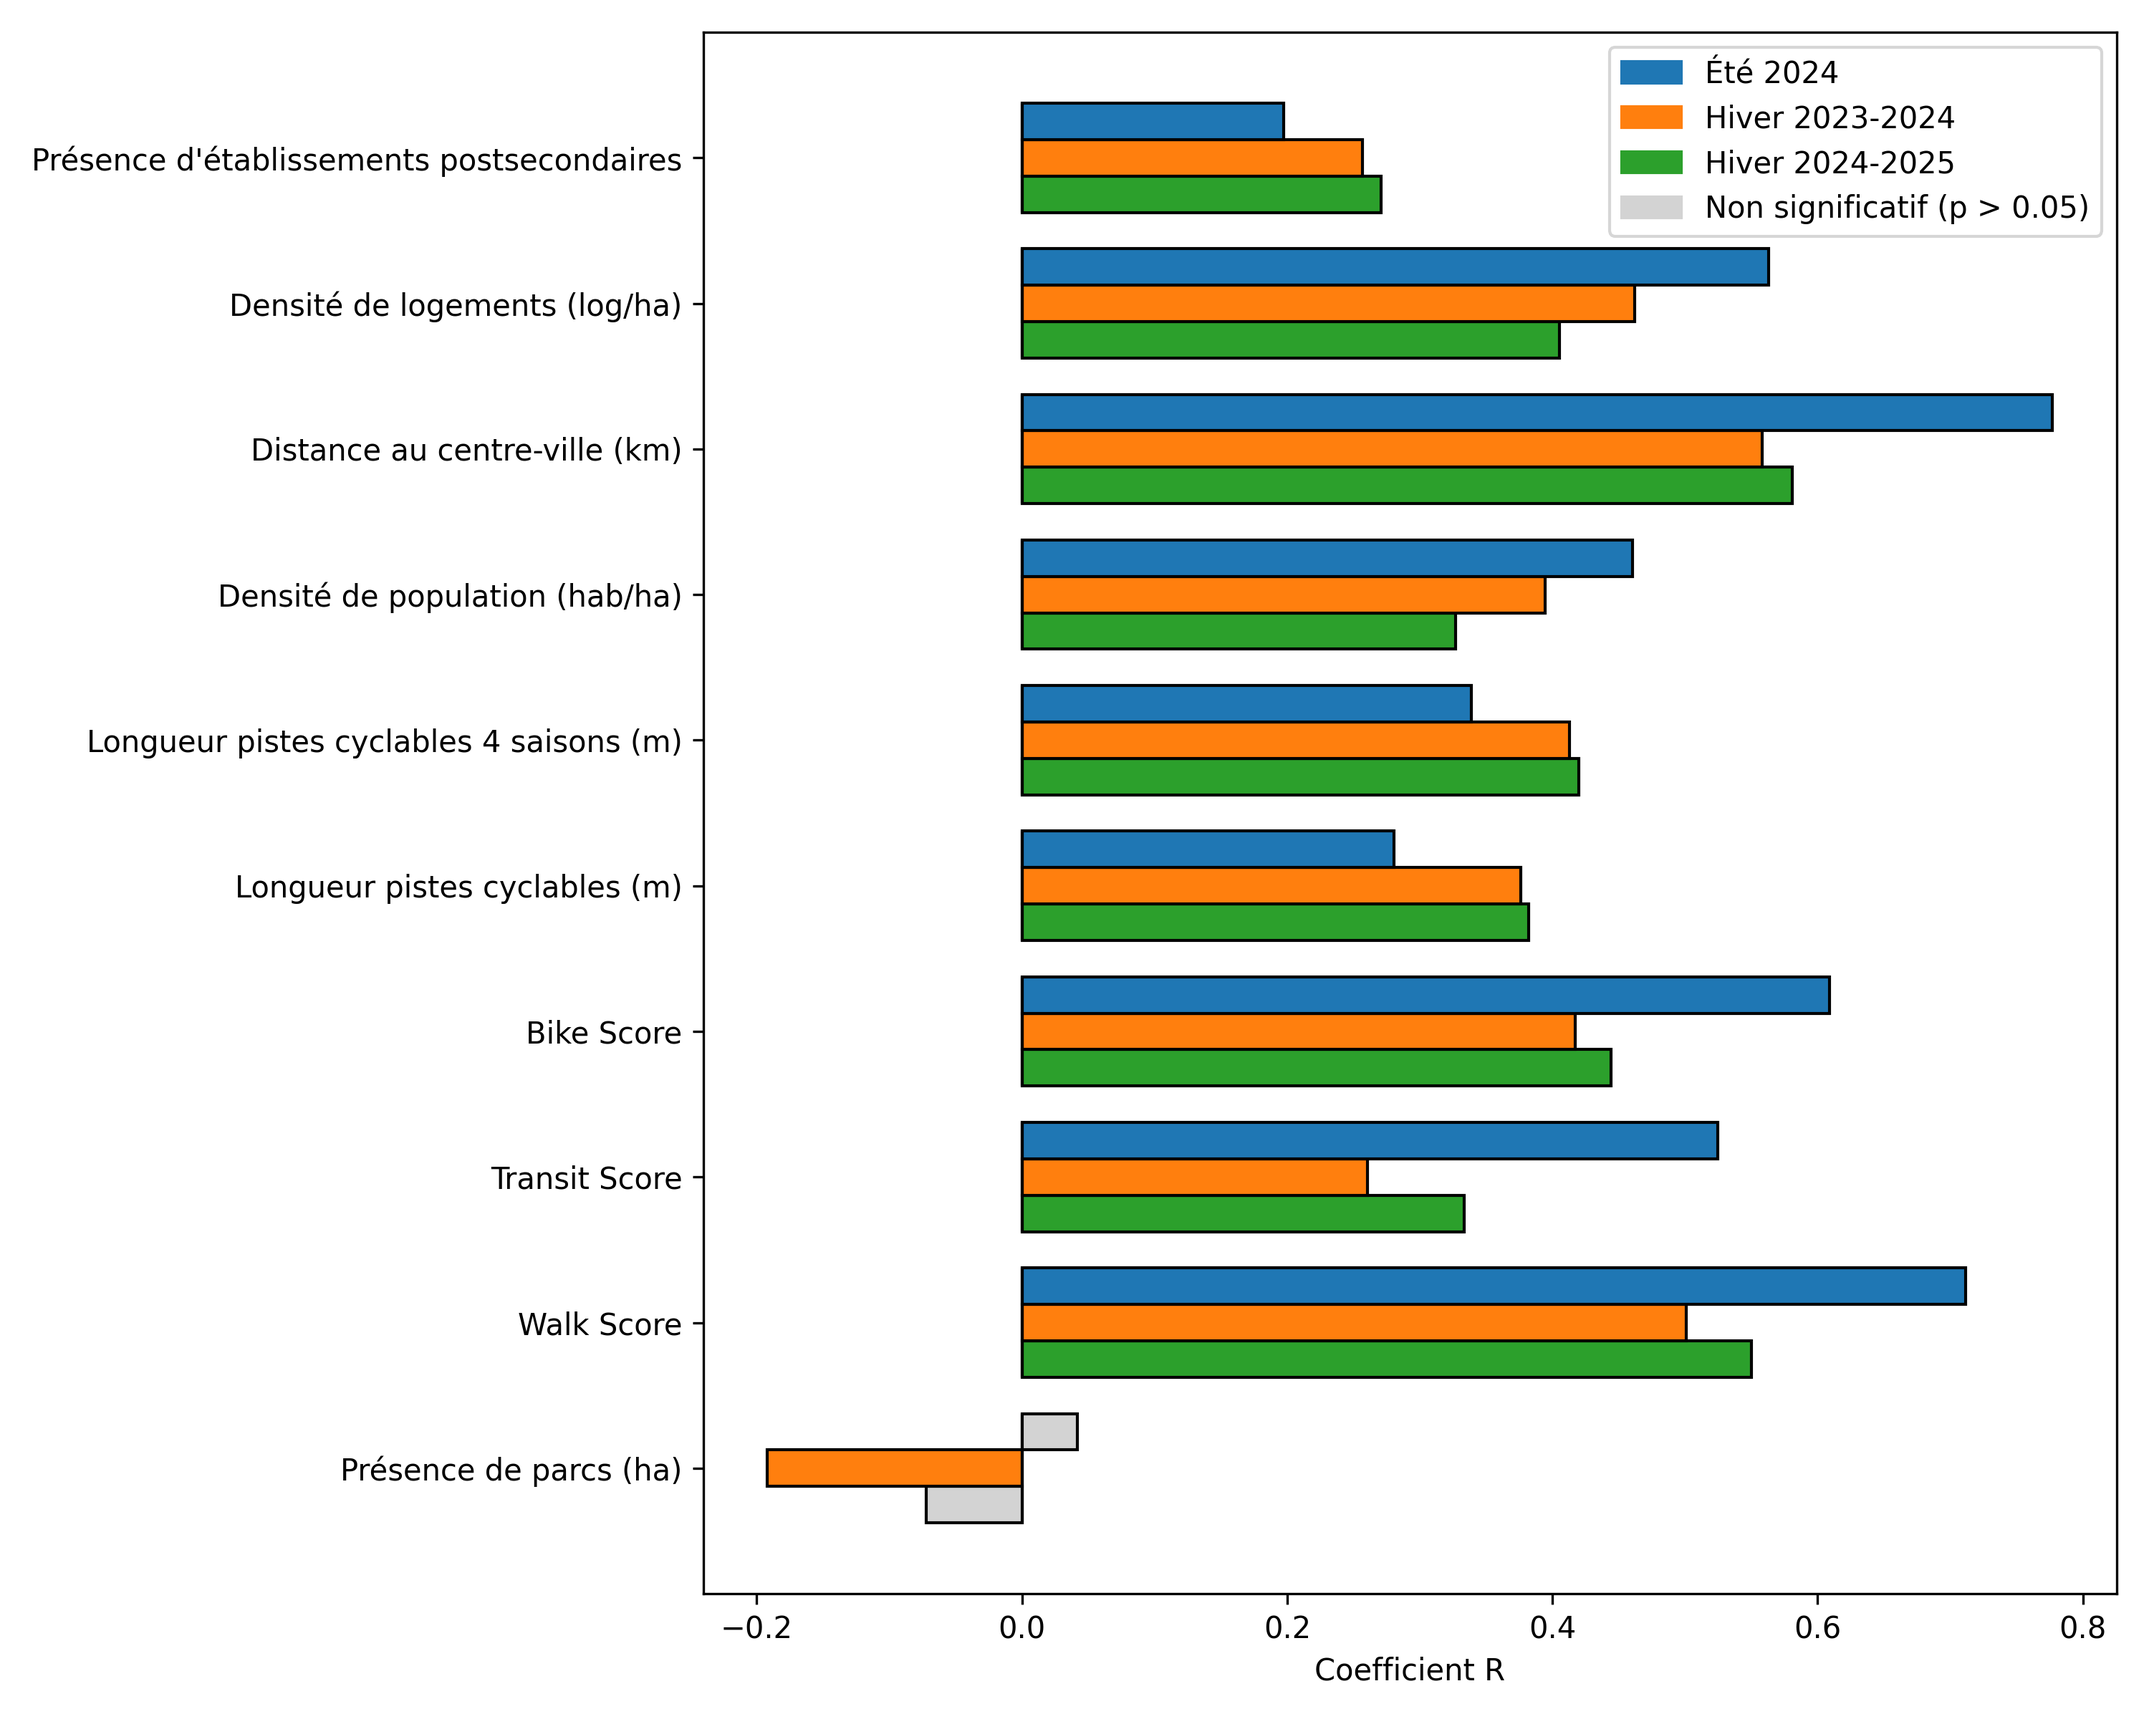
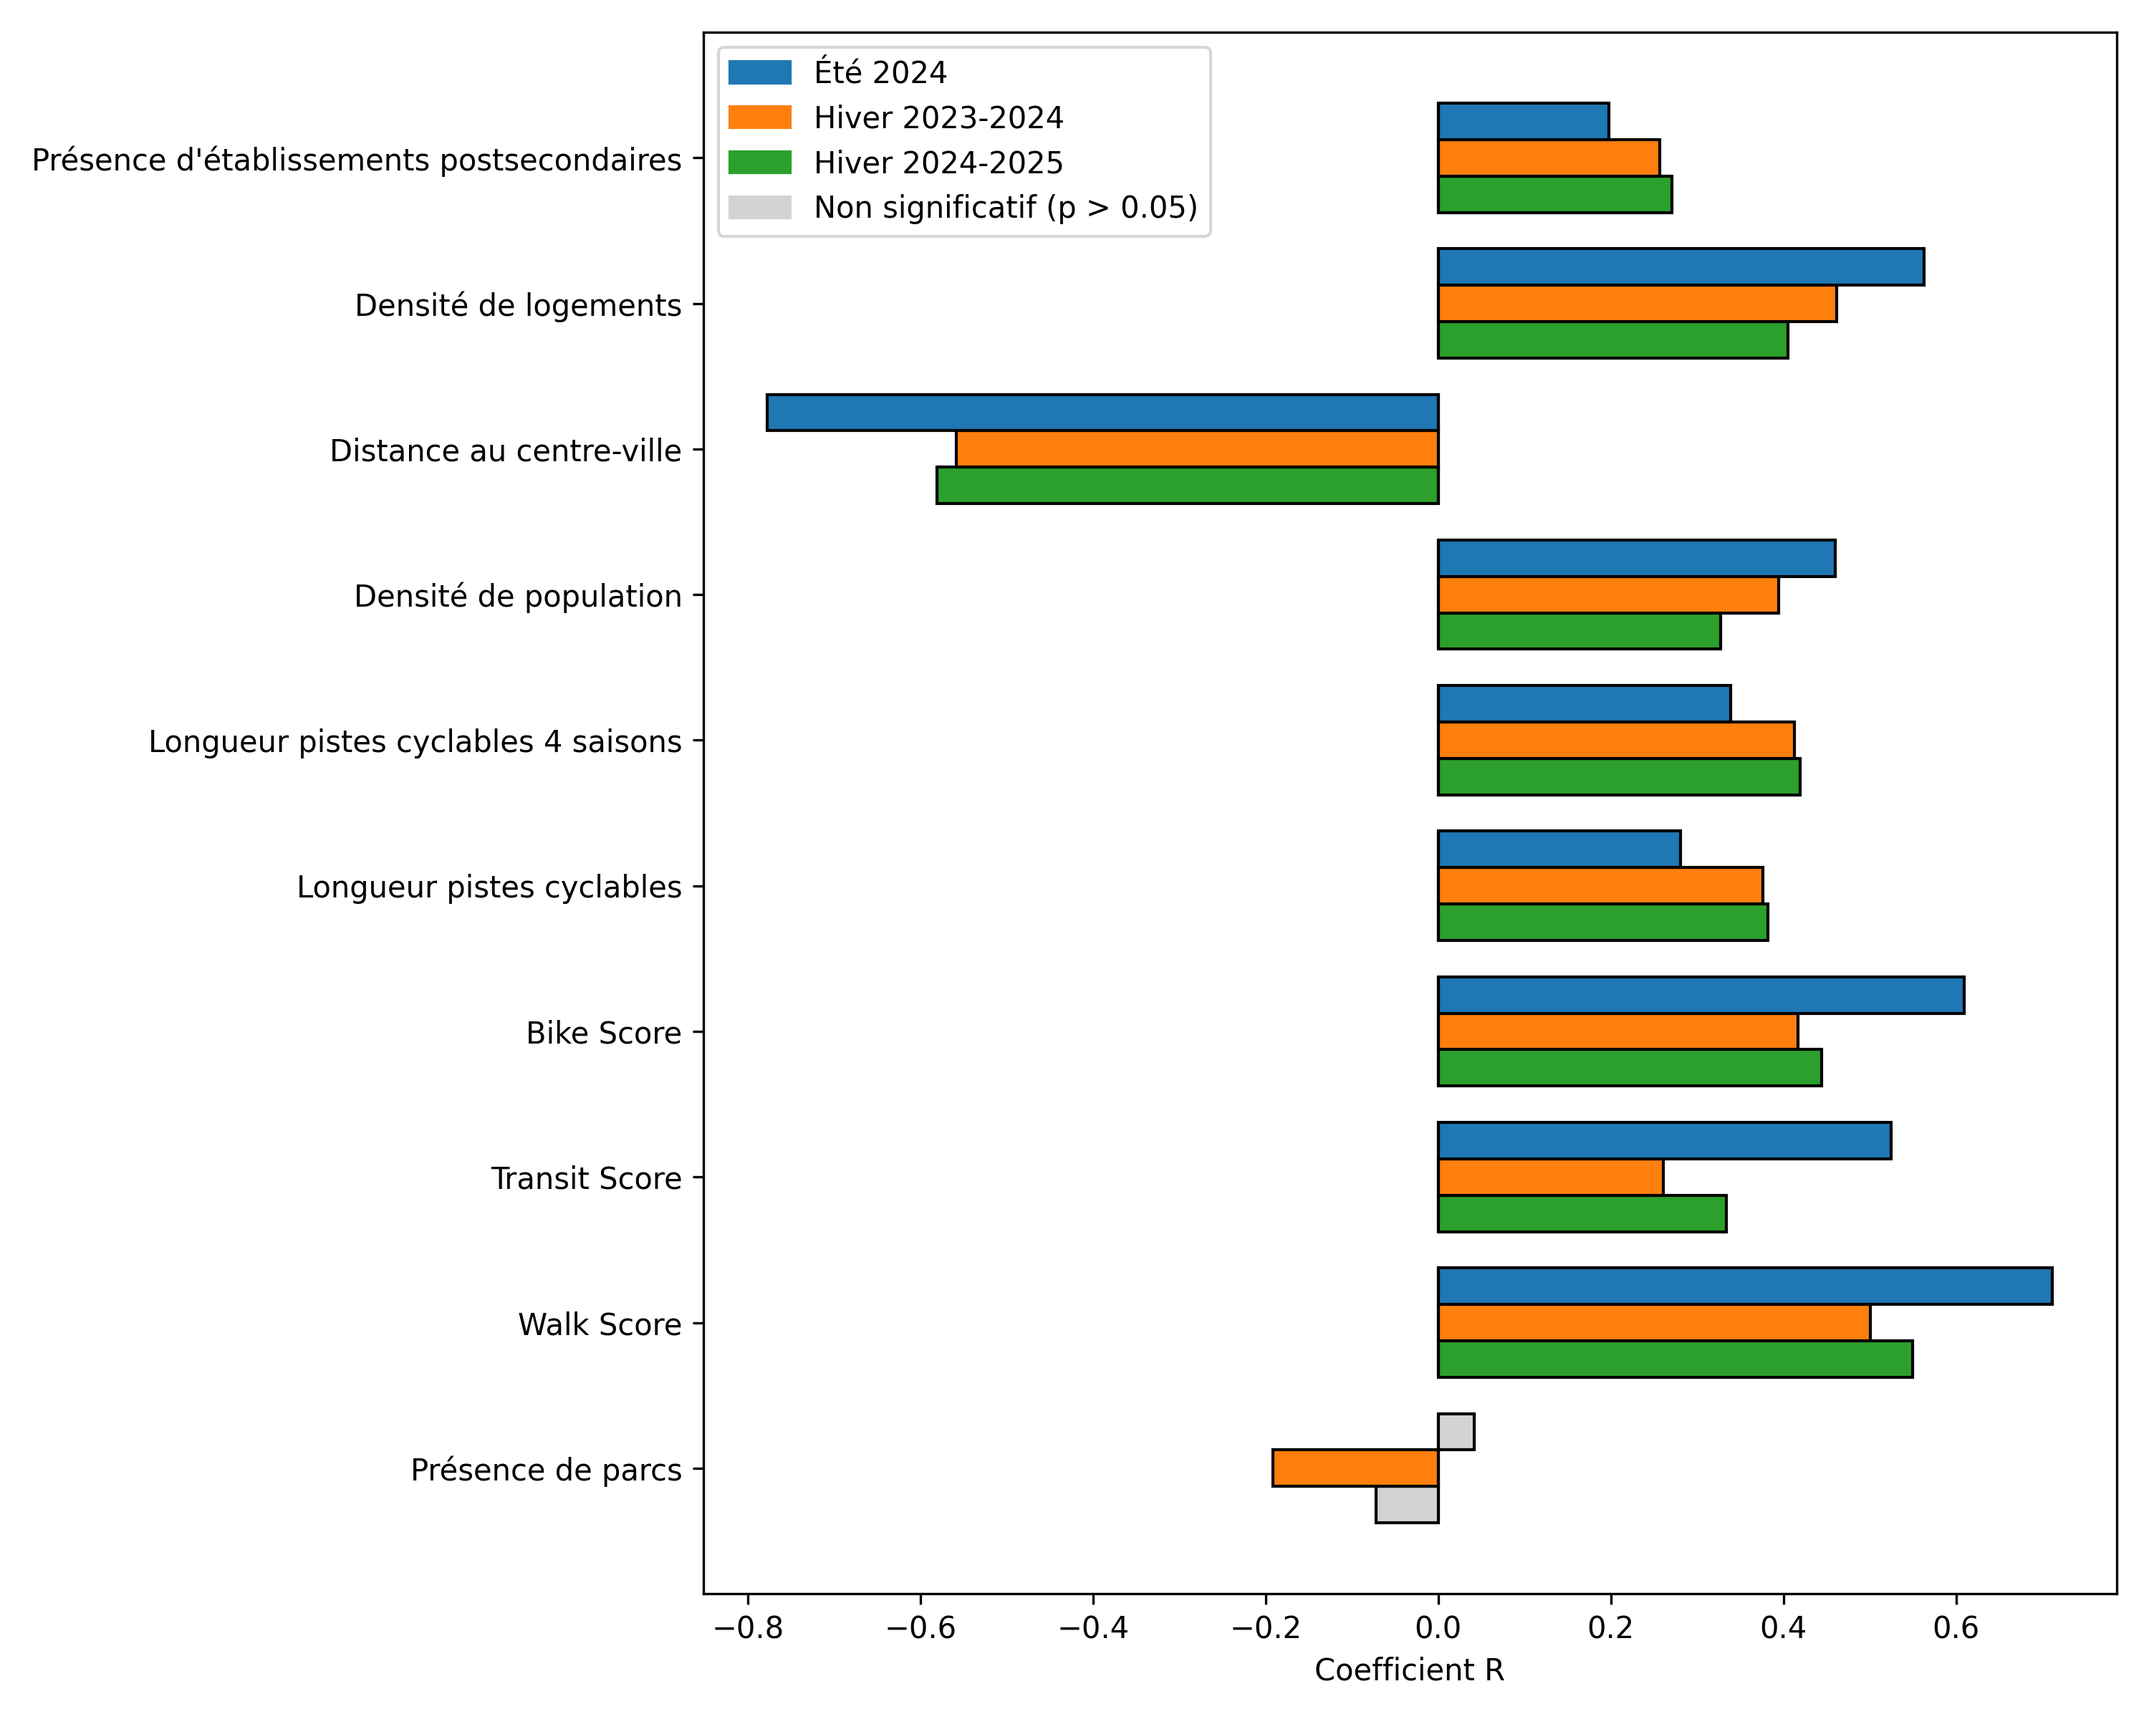
revert invert distance to cbd

diff --git a/scripts/visuals/corr_comp_graph.py b/scripts/visuals/corr_comp_graph.py
@@ -6,18 +6,18 @@ from scipy.stats import spearmanr
 
 # Dictionnaire x_variable → description
 dict_nom = {
-    "aire_parc": "Présence de parcs (ha)",
+    "aire_parc": "Présence de parcs",
     #"nombre_uni": "Nombre d'universités",
     "walk_sc_mo": "Walk Score",
     "tran_sc_mo": "Transit Score",
     "bike_sc_mo": "Bike Score",
-    "l_m": "Longueur pistes cyclables (m)",
-    "l4s_m": "Longueur pistes cyclables 4 saisons (m)",
+    "l_m": "Longueur pistes cyclables",
+    "l4s_m": "Longueur pistes cyclables 4 saisons",
     #"p4s_m": "Longueur pistes cyclables 4 saisons protégées (m)",
     #"np4s_m": "Longueur pistes cyclables 4 saisons non protégées (m)",
-    "densite_es": "Densité de population (hab/ha)",
-    "distance_c": "Distance au centre-ville (km)",
-    "densite_lo": "Densité de logements (log/ha)",
+    "densite_es": "Densité de population",
+    "distance_c": "Distance au centre-ville",
+    "densite_lo": "Densité de logements",
    # "nb_cegep": "Nombre de cégeps",
     "nb_ec_supp": "Présence d'établissements postsecondaires"
 }
@@ -43,9 +43,9 @@ def plot_correlation(R_col, p_col, output_file="correlations.png"):
     """
     # Charger les CSV
     dfs = [pd.read_csv(f) for f in files]
-    for df in dfs:
-        print( df[df['x_variable'] == 'distance_c']['spearman_r'].values[0])
-        df.loc[df['x_variable'] == 'distance_c', 'spearman_r'] = (-df.loc[df['x_variable'] == 'distance_c', 'spearman_r'].values[0])
+#    for df in dfs:
+#        print( df[df['x_variable'] == 'distance_c']['spearman_r'].values[0])
+ #       df.loc[df['x_variable'] == 'distance_c', 'spearman_r'] = (-df.loc[df['x_variable'] == 'distance_c', 'spearman_r'].values[0])
 
     # Labels
     labels = [dict_nom[x] for x in dfs[0]["x_variable"]]
